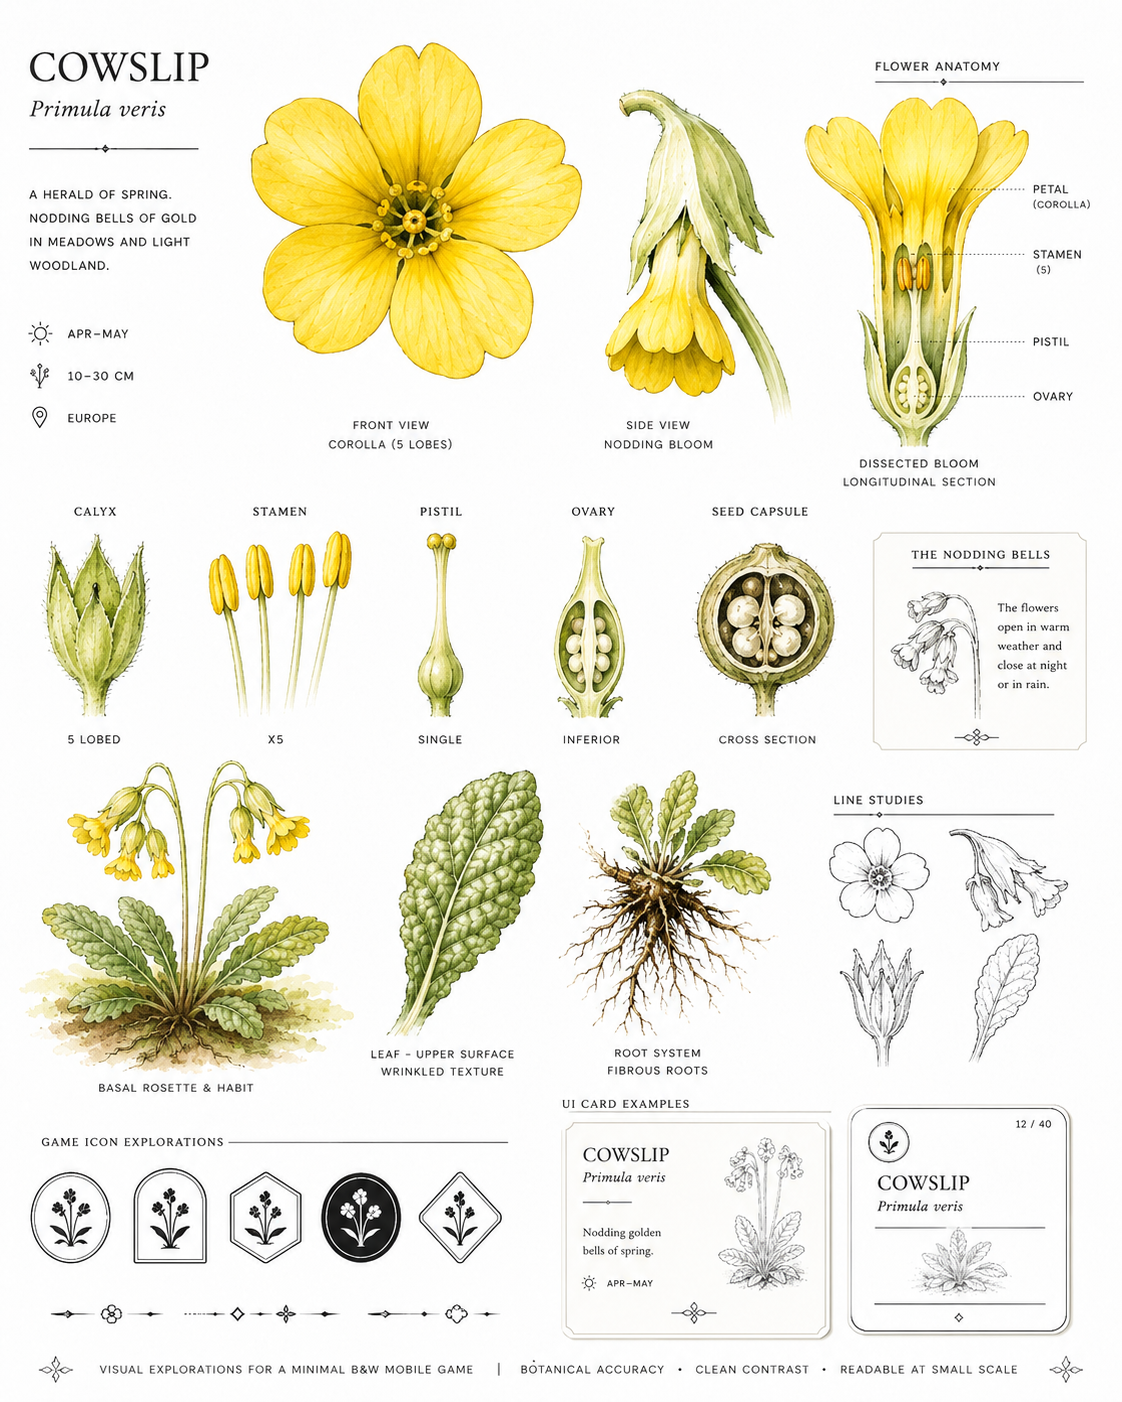
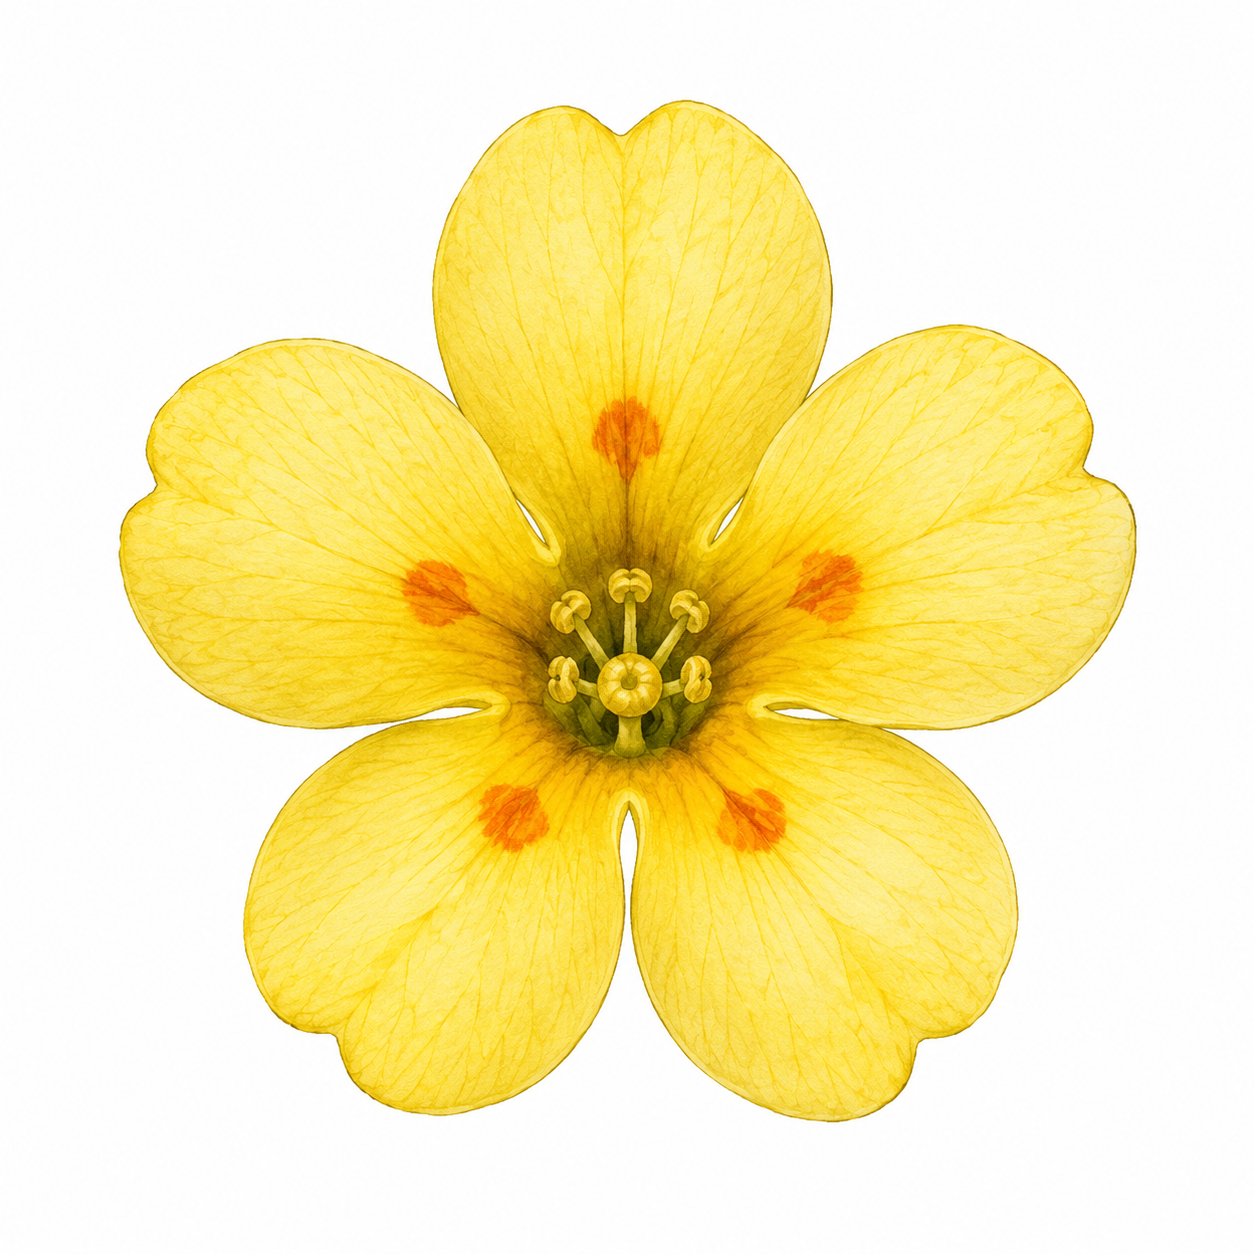
Improve Cowslip landing and room exit

diff --git a/src/styles.css b/src/styles.css
@@ -11,6 +11,9 @@
   --panel-gap: 14px;
   --topbar-control-height: 36px;
   --topbar-chip-label-width: 74px;
+  --accent-orange: #c76312;
+  --accent-green: #49680f;
+  --accent-green-dark: #324c0a;
 }
 
 * {
@@ -36,9 +39,16 @@ button {
 }
 
 :focus-visible {
-  outline: 2px solid #111;
+  outline: 2px solid var(--accent-orange);
   outline-offset: 3px;
   box-shadow: none;
+}
+
+::view-transition-group(*),
+::view-transition-old(*),
+::view-transition-new(*) {
+  animation-duration: 0.25s;
+  animation-timing-function: cubic-bezier(0.19, 1, 0.22, 1);
 }
 
 .sr-only {
@@ -77,10 +87,6 @@ button {
   border-bottom: 1px solid #111;
   padding-bottom: 12px;
   margin-bottom: 18px;
-}
-
-.topbar-minimal {
-  grid-template-columns: minmax(0, 1fr) auto;
 }
 
 .topbar-brand {
@@ -221,6 +227,15 @@ button {
   place-items: center;
 }
 
+.topbar-leave-button {
+  min-height: var(--topbar-control-height);
+  display: inline-flex;
+  align-items: center;
+  gap: 6px;
+  padding: 0 10px;
+  white-space: nowrap;
+}
+
 .toast {
   border: 1px solid #111;
   background: #fff;
@@ -267,22 +282,22 @@ h2 {
 }
 
 .hero {
-  min-height: max(560px, calc(100vh - 180px));
+  min-height: max(500px, calc(100vh - 132px));
   display: grid;
-  grid-template-columns: minmax(0, 1.25fr) minmax(300px, 440px);
-  gap: clamp(28px, 6vw, 76px);
+  grid-template-columns: minmax(0, 1fr) minmax(320px, 460px);
+  gap: clamp(32px, 6vw, 80px);
   align-items: center;
 }
 
 .plain-lockup {
   display: grid;
   align-content: center;
-  gap: clamp(16px, 3vw, 28px);
+  gap: clamp(18px, 3vw, 30px);
   position: relative;
 }
 
 .plain-lockup h1 {
-  font-size: clamp(3.4rem, 11vw, 8rem);
+  font-size: clamp(3.2rem, 8vw, 5.8rem);
   line-height: 0.95;
   margin: 0;
 }
@@ -299,7 +314,9 @@ h2 {
 
 .landing-art {
   position: relative;
-  min-height: clamp(260px, 43vw, 440px);
+  min-height: clamp(290px, 36vw, 470px);
+  display: grid;
+  place-items: center;
 }
 
 .landing-art img {
@@ -308,18 +325,9 @@ h2 {
   user-select: none;
 }
 
-.landing-bloom {
-  position: absolute;
-  width: min(78%, 520px);
-  right: 0;
-  top: 0;
-}
-
-.landing-rosette {
-  position: absolute;
-  width: min(54%, 350px);
-  left: 0;
-  bottom: 0;
+.landing-flower {
+  width: min(100%, 470px);
+  filter: drop-shadow(0 16px 22px rgb(17 17 17 / 0.08));
 }
 
 .room-entry-stack,
@@ -379,6 +387,20 @@ textarea {
 .room-entry-card .button.primary,
 .guess-form .button.primary {
   width: 100%;
+}
+
+.room-entry-card .button.primary {
+  background: var(--accent-green);
+  border-color: var(--accent-green);
+}
+
+.room-entry-card .button.primary:hover {
+  background: var(--accent-green-dark);
+  border-color: var(--accent-green-dark);
+}
+
+.room-entry-card input:focus-visible {
+  outline-color: var(--accent-orange);
 }
 
 .card-title {
@@ -891,7 +913,7 @@ textarea {
     min-height: auto;
     grid-template-columns: 1fr;
     align-content: start;
-    gap: 18px;
+    gap: 20px;
   }
 
   .plain-lockup {
@@ -900,16 +922,12 @@ textarea {
   }
 
   .landing-art {
-    min-height: clamp(210px, 70vw, 330px);
+    min-height: auto;
   }
 
-  .landing-bloom {
-    width: min(72%, 290px);
-    right: 0;
-  }
-
-  .landing-rosette {
-    width: min(52%, 220px);
+  .landing-flower {
+    width: min(100%, 360px);
+    justify-self: center;
   }
 
   .paper-panel,

diff --git a/src/app.tsx b/src/app.tsx
@@ -1,6 +1,6 @@
 import React, { useEffect, useLayoutEffect, useRef } from "react";
 import { createRoot } from "react-dom/client";
-import { Check, CircleHelp, Copy, Home, UserPen, X } from "lucide-react";
+import { Check, CircleHelp, Copy, LogOut, UserPen, X } from "lucide-react";
 import { create } from "zustand";
 import { createJSONStorage, persist } from "zustand/middleware";
 import { STARTER_CATEGORIES, categoryLabel } from "./content/categories";
@@ -523,9 +523,7 @@ function CowslipApp(): React.ReactElement {
   useAutoFocus();
 
   let body: React.ReactNode;
-  let hideHeaderBrand = false;
   if (!context.roomSlug) {
-    hideHeaderBrand = true;
     body = <RoomEntry />;
   } else if (!context.handle) {
     body = <HandleClaim />;
@@ -549,7 +547,7 @@ function CowslipApp(): React.ReactElement {
 
   return (
     <main className="app-shell" onKeyDown={handleRootKeyDown}>
-      <Shell hideHeaderBrand={hideHeaderBrand} />
+      <Shell />
       {error ? (
         <div className="toast" role="alert" data-testid="error">
           {error}
@@ -561,7 +559,7 @@ function CowslipApp(): React.ReactElement {
   );
 }
 
-function Shell({ hideHeaderBrand }: { hideHeaderBrand?: boolean }): React.ReactElement {
+function Shell(): React.ReactElement {
   const context = useGameStore((state) => state.context);
   const openHelp = useGameStore((state) => state.openHelp);
   const copyRoom = useGameStore((state) => state.copyRoom);
@@ -570,16 +568,12 @@ function Shell({ hideHeaderBrand }: { hideHeaderBrand?: boolean }): React.ReactE
   const copyStatus = useGameStore((state) => state.copyStatus);
   const hasRoomContext = Boolean(context.roomSlug || context.handle);
   return (
-    <header className={`topbar ${hideHeaderBrand ? "topbar-minimal" : ""}`}>
-      {hideHeaderBrand ? (
-        <div />
-      ) : (
-        <div className="topbar-brand">
-          <a className="wordmark" href="./">
-            Cowslip
-          </a>
-        </div>
-      )}
+    <header className="topbar">
+      <div className="topbar-brand">
+        <a className="wordmark" href="./">
+          Cowslip
+        </a>
+      </div>
       <div className="topbar-global-actions">
         <button type="button" className="help-button" aria-label="How to play" title="How to play" onClick={openHelp} data-testid="help-button">
           <CircleHelp aria-hidden="true" size={24} strokeWidth={2.25} />
@@ -595,8 +589,9 @@ function Shell({ hideHeaderBrand }: { hideHeaderBrand?: boolean }): React.ReactE
             ) : null}
             <div className="topbar-icon-actions">
               {context.roomSlug ? (
-                <button type="button" className="button icon-button topbar-icon-button" aria-label="Room switcher" title="Room switcher" onClick={leaveRoom} data-testid="leave-room">
-                  <Home aria-hidden="true" size={19} strokeWidth={2.5} />
+                <button type="button" className="button topbar-leave-button" aria-label="Leave room" title="Leave room" onClick={leaveRoom} data-testid="leave-room">
+                  <LogOut aria-hidden="true" size={18} strokeWidth={2.5} />
+                  <span>Leave</span>
                 </button>
               ) : null}
               {context.roomSlug ? (
@@ -717,8 +712,7 @@ function RoomEntry(): React.ReactElement {
           <p>A cooperative word game where every letter counts.</p>
         </div>
         <div className="landing-art" aria-hidden="true">
-          <img src="./assets/cowslip-bloom.webp" alt="" className="landing-bloom" />
-          <img src="./assets/cowslip-rosette.webp" alt="" className="landing-rosette" />
+          <img src="./assets/cowslip-flower.webp" alt="" className="landing-flower" />
         </div>
       </div>
       <div className="room-entry-stack">

diff --git a/scripts/prepare-assets.ts b/scripts/prepare-assets.ts
@@ -297,29 +297,20 @@ await transparentCrop("sowsear-title-header.png", `${outDir}/brand-title-header.
   padding: 4,
 });
 
-const cowslipBloom = await distanceAlphaCrop("cowslip-art.png", {
-  left: 220,
-  top: 34,
-  width: 377,
-  height: 360,
-}, 820);
-await sharp(cowslipBloom)
+const cowslipMetadata = await sharp("cowslip-art.png").metadata();
+const cowslipFlower = await distanceAlphaCrop("cowslip-art.png", {
+  left: 0,
+  top: 0,
+  width: cowslipMetadata.width ?? 1254,
+  height: cowslipMetadata.height ?? 1254,
+}, 980);
+await sharp(cowslipFlower)
   .webp({ quality: 86, alphaQuality: 90, effort: 6 })
-  .toFile(`${outDir}/cowslip-bloom.webp`);
-await sharp(cowslipBloom)
+  .toFile(`${outDir}/cowslip-flower.webp`);
+await sharp(cowslipFlower)
   .resize({ width: 96, height: 96, fit: "contain", background: { r: 255, g: 255, b: 255, alpha: 0 } })
   .png({ compressionLevel: 9, effort: 10 })
   .toFile(`${outDir}/cowslip-icon.png`);
-
-const cowslipRosette = await distanceAlphaCrop("cowslip-art.png", {
-  left: 0,
-  top: 758,
-  width: 365,
-  height: 305,
-}, 760);
-await sharp(cowslipRosette)
-  .webp({ quality: 86, alphaQuality: 90, effort: 6 })
-  .toFile(`${outDir}/cowslip-rosette.webp`);
 
 const source = sharp("sowsear-letters.png").ensureAlpha();
 const { data, info } = await source.raw().toBuffer({ resolveWithObject: true });

diff --git a/tests/cdp.test.ts b/tests/cdp.test.ts
@@ -582,7 +582,7 @@ describe("Chromium CDP app flow", () => {
     await page.waitFor(`document.querySelector('.plain-lockup')`);
     expect(await page.eval<number>(`document.querySelectorAll('.brand-title, .brand-pig, .handle-mascot').length`)).toBe(0);
     expect(await page.eval<boolean>(`document.querySelector('.plain-lockup')?.innerText.includes("Cowslip")`)).toBe(true);
-    expect(await page.eval<number>(`document.querySelectorAll('.landing-art img').length`)).toBe(2);
+    expect(await page.eval<number>(`document.querySelectorAll('.landing-art img').length`)).toBe(1);
     await page.click("help-button");
     await page.waitFor(`document.querySelector('[data-testid="help-dialog"]')?.open === true`);
     expect(await page.eval<boolean>(`document.body.innerText.includes('How to Play') && document.body.innerText.includes('Scoring')`)).toBe(true);
@@ -609,6 +609,7 @@ describe("Chromium CDP app flow", () => {
     expect(await page.eval<number>(`performance.getEntriesByType('navigation').length`)).toBe(navigationCount);
     expect(await page.eval<boolean>(`document.body.innerText.includes('Alice')`)).toBe(true);
     expect(await page.eval<boolean>(`new URL(location.href).searchParams.get('room') === ${JSON.stringify(room)}`)).toBe(true);
+    expect(await page.eval<string>(`document.querySelector('[data-testid="leave-room"]')?.textContent.trim() ?? ''`)).toBe("Leave");
 
     await page.click("leave-room");
     await page.waitFor(`document.querySelector('[data-testid="room-input"]') && !new URL(location.href).searchParams.has('room')`);
@@ -1449,6 +1450,7 @@ describe("Chromium CDP app flow", () => {
     await page.waitFor(`document.querySelector('[data-testid="room-input"]')`);
     expect(await page.eval<boolean>(`document.documentElement.scrollWidth <= window.innerWidth + 1`)).toBe(true);
     expect(await page.eval<number>(`document.querySelectorAll('.brand-title, .brand-pig, .handle-mascot').length`)).toBe(0);
-    expect(await page.eval<number>(`document.querySelectorAll('.topbar-brand').length`)).toBe(0);
+    expect(await page.eval<number>(`document.querySelectorAll('.topbar-brand').length`)).toBe(1);
+    expect(await page.eval<number>(`document.querySelectorAll('.landing-art img').length`)).toBe(1);
   }, 20000);
 });